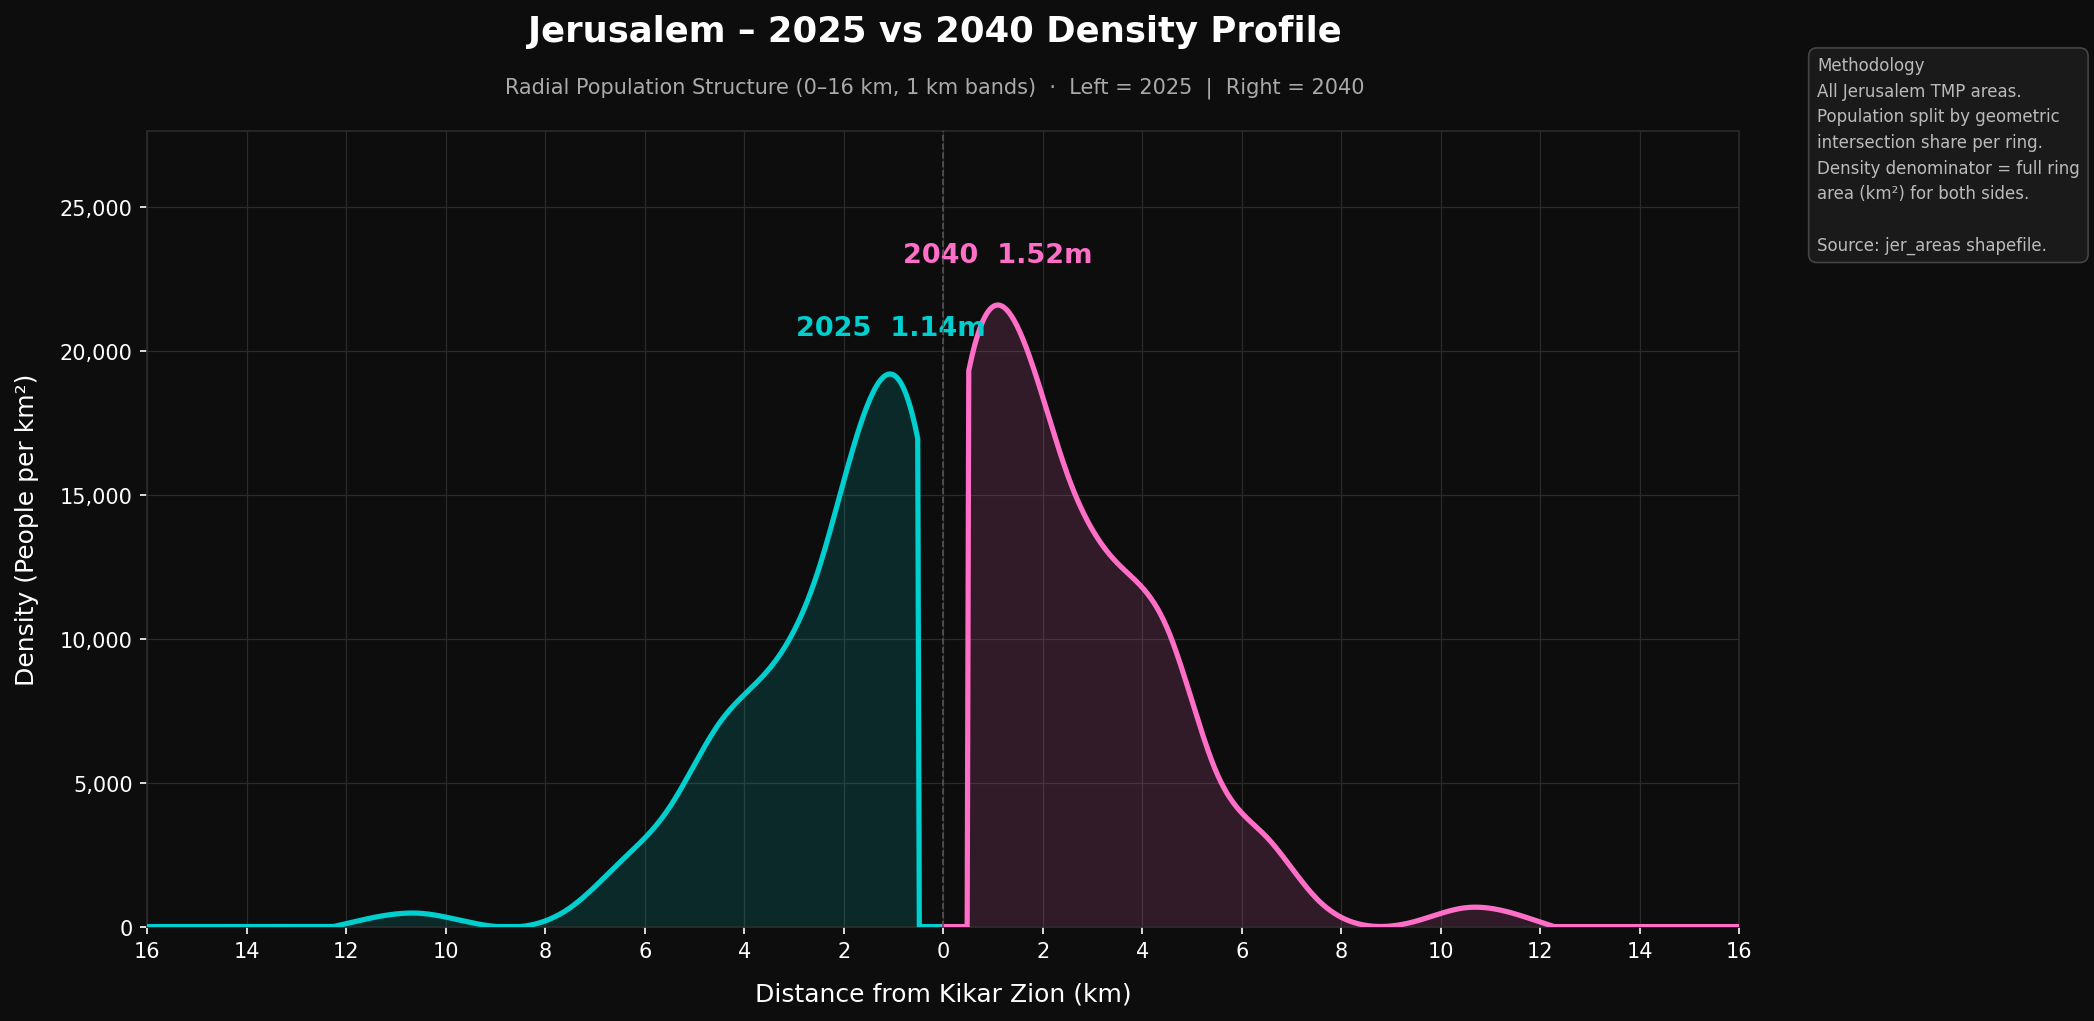
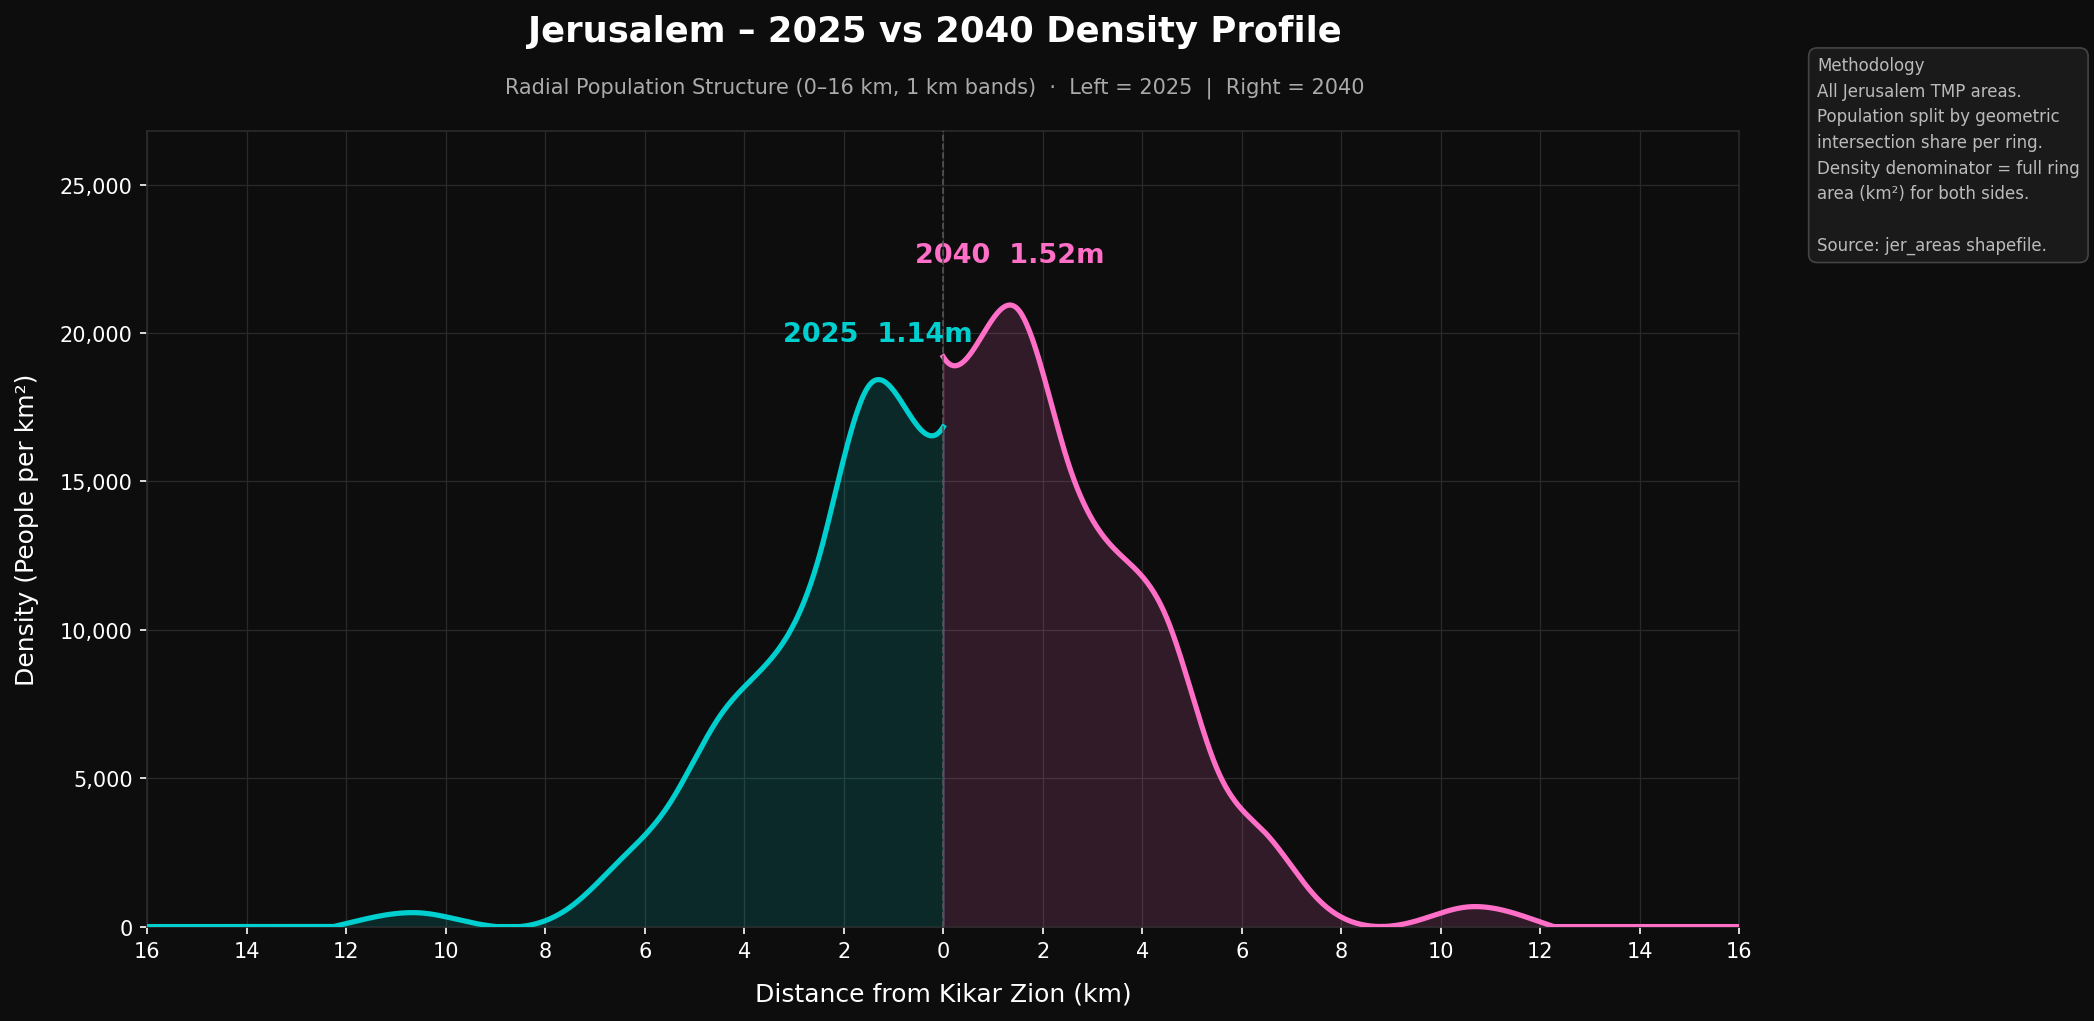
Fix profiles going to zero at city centre (x=0)
Add a knot at x=0 with y=first-ring density to all splines.
Previously the nearest data point was the ring midpoint at ±0.5 km,
leaving a 0.5 km gap at the centre that evaluated to zero.

- density_profile.py, combined_profile.py, combined_profile_jewish.py:
  insert [0, dens[0]] into the symmetric x/y arrays
- combined_profile_lr.py, asymmetric_profile.py, pop_vs_emp_profile.py,
  haredi_vs_jewish_profile.py: prepend (0, dens[0]) in _side_spline()
  so each half-spline anchors smoothly at the centre line

https://claude.ai/code/session_01Wkc3oYCRGuMqTiP78fZipH

diff --git a/population_figure/asymmetric_profile.py b/population_figure/asymmetric_profile.py
@@ -95,8 +95,8 @@ def _side_spline(dens, sign, n=500):
     """Build a spline for one side (+1=right, -1=left) with gradual taper to zero."""
     last_nz = max((i for i, d in enumerate(dens) if d > 0), default=0)
     zero_x  = min((last_nz + 3) * rw, 16)
-    xs = np.array([(r + 0.5) * rw for r in range(last_nz + 1)] + [zero_x]) * sign
-    ys = np.array(list(dens[:last_nz + 1]) + [0])
+    xs = np.array([0] + [(r + 0.5) * rw for r in range(last_nz + 1)] + [zero_x]) * sign
+    ys = np.array([dens[0]] + list(dens[:last_nz + 1]) + [0])
     if sign < 0:
         xs, ys = xs[::-1], ys[::-1]
     x_full = np.linspace(-16 if sign < 0 else 0, 0 if sign < 0 else 16, n)

diff --git a/population_figure/combined_profile_lr.py b/population_figure/combined_profile_lr.py
@@ -71,8 +71,8 @@ def ring_densities(pop_col):
 def _side_spline(dens, sign, n=500):
     last_nz = max((i for i, d in enumerate(dens) if d > 0), default=0)
     zero_x  = min((last_nz + 3) * rw, 16)
-    xs = np.array([(r + 0.5) * rw for r in range(last_nz + 1)] + [zero_x]) * sign
-    ys = np.array(list(dens[:last_nz + 1]) + [0])
+    xs = np.array([0] + [(r + 0.5) * rw for r in range(last_nz + 1)] + [zero_x]) * sign
+    ys = np.array([dens[0]] + list(dens[:last_nz + 1]) + [0])
     if sign < 0:
         xs, ys = xs[::-1], ys[::-1]
     x_full = np.linspace(-16 if sign < 0 else 0, 0 if sign < 0 else 16, n)

diff --git a/population_figure/haredi_vs_jewish_profile.py b/population_figure/haredi_vs_jewish_profile.py
@@ -86,8 +86,8 @@ rw = RING_WIDTH / 1000
 def _side_spline(dens, sign, n=500):
     last_nz = max((i for i, d in enumerate(dens) if d > 0), default=0)
     zero_x  = min((last_nz + 3) * rw, 16)
-    xs = np.array([(r + 0.5) * rw for r in range(last_nz + 1)] + [zero_x]) * sign
-    ys = np.array(list(dens[:last_nz + 1]) + [0])
+    xs = np.array([0] + [(r + 0.5) * rw for r in range(last_nz + 1)] + [zero_x]) * sign
+    ys = np.array([dens[0]] + list(dens[:last_nz + 1]) + [0])
     if sign < 0:
         xs, ys = xs[::-1], ys[::-1]
     # Extend to full half: left -16→0, right 0→16

diff --git a/population_figure/pop_vs_emp_profile.py b/population_figure/pop_vs_emp_profile.py
@@ -86,8 +86,8 @@ rw = RING_WIDTH / 1000
 def _side_spline(dens, sign, n=500):
     last_nz = max((i for i, d in enumerate(dens) if d > 0), default=0)
     zero_x  = min((last_nz + 3) * rw, 16)
-    xs = np.array([(r + 0.5) * rw for r in range(last_nz + 1)] + [zero_x]) * sign
-    ys = np.array(list(dens[:last_nz + 1]) + [0])
+    xs = np.array([0] + [(r + 0.5) * rw for r in range(last_nz + 1)] + [zero_x]) * sign
+    ys = np.array([dens[0]] + list(dens[:last_nz + 1]) + [0])
     if sign < 0:
         xs, ys = xs[::-1], ys[::-1]
     # Extend to full half: left -16→0, right 0→16

diff --git a/population_figure/density_profile.py b/population_figure/density_profile.py
@@ -95,8 +95,8 @@ def make_figure(year):
     zero_x  = min((last_nz + 3) * rw, 16)   # 2 rings of taper beyond last non-zero
     x_r = [(r + 0.5) * rw for r in range(last_nz + 1)] + [zero_x]
     y_r = list(ring_densities[:last_nz + 1]) + [0]
-    x   = np.array([-v for v in reversed(x_r)] + x_r)
-    y   = np.array(list(reversed(y_r)) + y_r)
+    x   = np.array([-v for v in reversed(x_r)] + [0] + x_r)
+    y   = np.array(list(reversed(y_r)) + [ring_densities[0]] + y_r)
 
     x_smooth = np.linspace(-16, 16, 500)
     y_smooth  = np.zeros(len(x_smooth))

diff --git a/population_figure/combined_profile_jewish.py b/population_figure/combined_profile_jewish.py
@@ -104,8 +104,8 @@ for cfg in YEARS:
     zero_x  = min((last_nz + 3) * rw, 16)
     x_r = [(r + 0.5) * rw for r in range(last_nz + 1)] + [zero_x]
     y_r = list(densities[:last_nz + 1]) + [0]
-    x   = np.array([-v for v in reversed(x_r)] + x_r)
-    y   = np.array(list(reversed(y_r)) + y_r)
+    x   = np.array([-v for v in reversed(x_r)] + [0] + x_r)
+    y   = np.array(list(reversed(y_r)) + [densities[0]] + y_r)
 
     x_s = np.linspace(-16, 16, 500)
     y_s = np.zeros(len(x_s))

diff --git a/population_figure/combined_profile.py b/population_figure/combined_profile.py
@@ -86,8 +86,8 @@ for cfg in YEARS:
     zero_x  = min((last_nz + 3) * rw, 16)
     x_r = [(r + 0.5) * rw for r in range(last_nz + 1)] + [zero_x]
     y_r = list(densities[:last_nz + 1]) + [0]
-    x   = np.array([-v for v in reversed(x_r)] + x_r)
-    y   = np.array(list(reversed(y_r)) + y_r)
+    x   = np.array([-v for v in reversed(x_r)] + [0] + x_r)
+    y   = np.array(list(reversed(y_r)) + [densities[0]] + y_r)
 
     x_s = np.linspace(-16, 16, 500)
     y_s = np.zeros(len(x_s))
